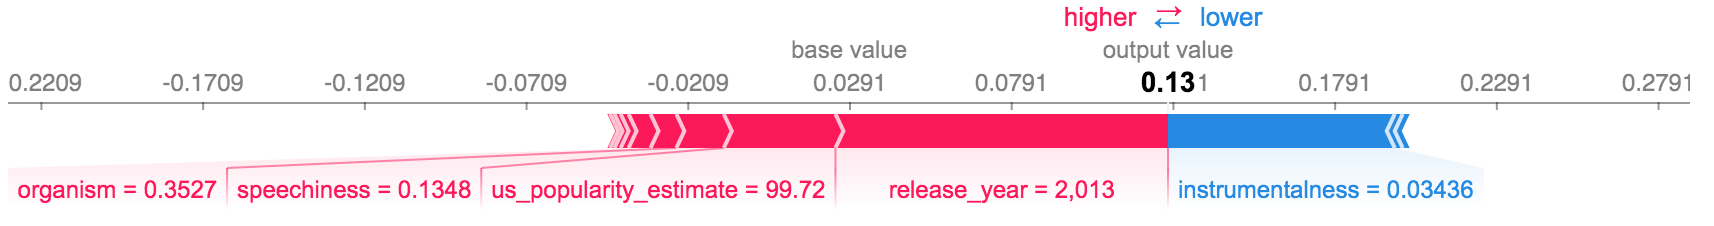
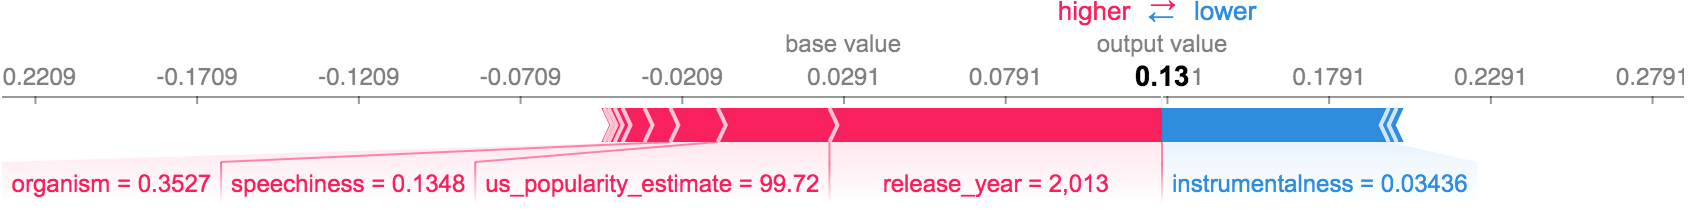
upload

diff --git a/pages/process.py b/pages/process.py
@@ -107,10 +107,12 @@ play a greater role in the prediction when a track lacks popularity and is conte
 
 
 ![PDP Interaction Plot 2](https://raw.githubusercontent.com/zwarshavsky/spotify-playlist-skipping-predictions/master/assets/pdp_interaction2.png "Title")
+
 The two features *speechiness* and *instrumentalness* refer to opposite qualities in the track. As you can see when a track is 100% instrumental, there is a much lower rate of speechiness, 
 a quality depicting spoken word elements. 
 
 
+![PDP Interaction Plot 2](https://raw.githubusercontent.com/zwarshavsky/spotify-playlist-skipping-predictions/master/assets/shap_force.png)
 
 
 
